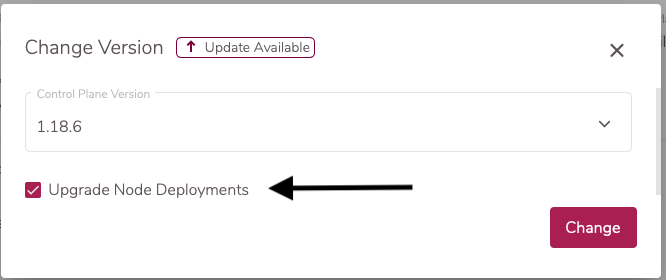
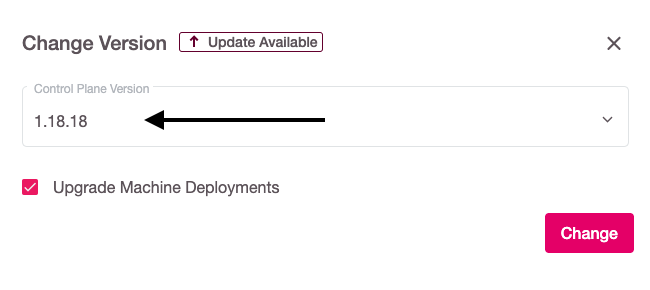
update clusterlifecycle/upgradingacluster to match 2.16

diff --git a/docs/_imke/clusterlifecycle/upgradingacluster/index.en.md b/docs/_imke/clusterlifecycle/upgradingacluster/index.en.md
@@ -11,7 +11,7 @@ each release. In order to stay safe and up-to-date, means
 installing Kubernetes updates on a regular basis.
 
 In especially critical cases, we will automatically update the
-Cluster API to the latest Minor-Version in order to keep our
+Cluster API to the latest minor version in order to keep our
 own infrastructure up-to-date. In this case the following section
 *The Cluster* can be skipped. However, nodes must still be updated
 manually by you.
@@ -66,7 +66,7 @@ Next we click on the pencil icon to open the update view.
 ![Step 4](update_4.png)
 
 Now, under `kubelet Version` we select the version, for example
-`1.15.3`, which matches the cluster's master version. Confirm the
+`1.18.18`, which matches the cluster's master version. Confirm the
 update by clicking `Edit Machine Deployment`
 
 ![Step 5](update_5.png)

diff --git a/docs/_imke/clusterlifecycle/upgradingacluster/index.de.md b/docs/_imke/clusterlifecycle/upgradingacluster/index.de.md
@@ -67,7 +67,7 @@ aufzumachen.
 
 Bei kubelet Version wählen wir nun die Version aus, welche auch bei
 unserem Cluster Master konfiguriert ist. In diesem Beispiel
-`1.15.3` und bestätigen mit `Edit Machine Deployment`
+`1.18.18` und bestätigen mit `Edit Machine Deployment`
 
 ![Step 5](update_5.png)
 
